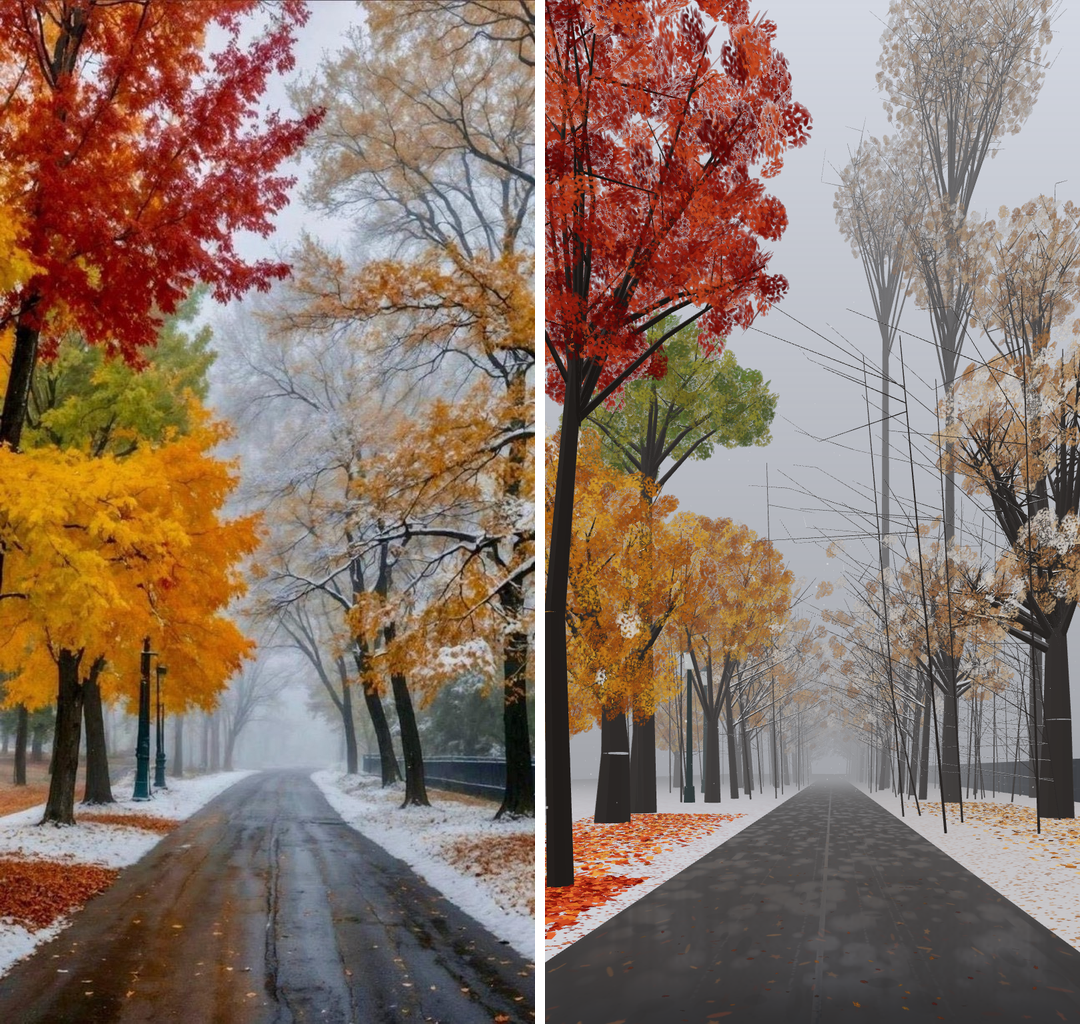
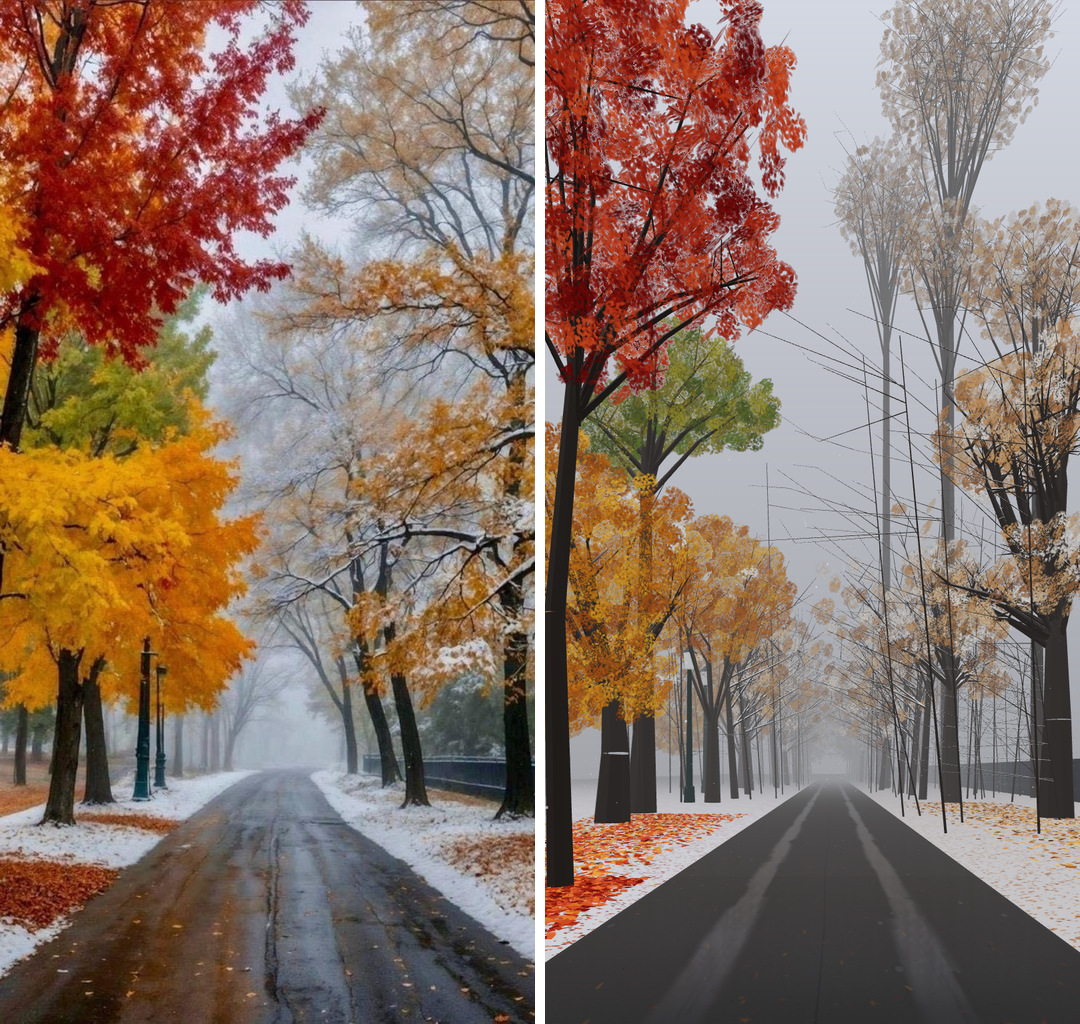
Push wet asphalt fidelity: soft dark tyre tracks and fine grain
Photo-matched near-road: denser grit, soft broken wet-track bands with
dark cool sheen (not bright grey strips), sparse tiny leaf flecks.
Still stylized vs real asphalt — honest limit of realtime procedural.

diff --git a/src/textures.ts b/src/textures.ts
@@ -73,88 +73,86 @@ export function snowTexture(seed: number, leaves: string[], leafAmount: number) 
 export function roadTextures(seed: number) {
   const W = 512, H = 2048, r = rng(seed);
   const [c, g] = canvas(W, H), [rc, rg] = canvas(W, H);
-  // muddy dark asphalt base (warm-grey, not pure black)
-  g.fillStyle = "#4a4642"; g.fillRect(0, 0, W, H);
-  rg.fillStyle = "#9a9a9a"; rg.fillRect(0, 0, W, H); // start rough
+  // warm mid asphalt closer to photo near (#5e4f4e-ish)
+  g.fillStyle = "#524f4c"; g.fillRect(0, 0, W, H);
+  rg.fillStyle = "#a8a8a8"; rg.fillRect(0, 0, W, H);
 
-  // fine grit
-  for (let i = 0; i < 28000; i++) {
-    const v = 40 + r() * 45;
-    const warm = r() * 8;
-    g.fillStyle = `rgba(${v + warm},${v + 2},${v},0.4)`;
-    g.fillRect(r() * W, r() * H, 1 + r() * 2, 1 + r() * 2);
+  // fine grain
+  for (let i = 0; i < 90000; i++) {
+    const v = 48 + r() * 55;
+    const warm = r() * 12;
+    g.fillStyle = `rgba(${v + warm},${v + 4},${v},0.55)`;
+    g.fillRect(r() * W, r() * H, 1, 1);
   }
-  // thin broken tyre / wet streaks (keep wet, avoid huge footprint blobs)
-  for (let s = 0; s < 6; s++) {
-    const x0 = W * (0.18 + r() * 0.64);
-    const wobble = 0.8 + r() * 2.2;
-    for (let y = 0; y < H; y += 2) {
-      if (r() < 0.35) continue;
-      const x = x0 + Math.sin(y * 0.01 + s) * wobble + (r() - 0.5) * 0.8;
-      const dark = 22 + r() * 20;
-      g.fillStyle = `rgba(${dark + 6},${dark + 2},${dark},0.28)`;
-      g.fillRect(x, y, 0.8 + r() * 1.2, 2);
-      rg.fillStyle = `rgba(${35 + r() * 25},${35 + r() * 25},${35 + r() * 25},0.4)`;
-      rg.fillRect(x - 0.3, y, 1.5 + r() * 1.5, 2);
+  for (let i = 0; i < 25000; i++) {
+    const v = 130 + r() * 90;
+    rg.fillStyle = `rgba(${v},${v},${v},0.3)`;
+    rg.fillRect(r() * W, r() * H, 1 + r(), 1 + r());
+  }
+
+  // soft dark wet tyre bands (no 1px scanlines) — darker + smoother for broken reflection
+  const tracks = [W * 0.3, W * 0.7];
+  for (const x0 of tracks) {
+    for (let i = 0; i < 120; i++) {
+      const y = r() * H;
+      const len = 40 + r() * 180;
+      const half = 10 + r() * 14;
+      const x = x0 + (r() - 0.5) * 14;
+      // broken: skip some segments
+      if (r() < 0.22) continue;
+      const gr = g.createRadialGradient(x, y + len * 0.3, 0, x, y + len * 0.3, half * 1.4);
+      const d = 36 + r() * 18;
+      gr.addColorStop(0, `rgba(${d + 4},${d + 2},${d},0.4)`);
+      gr.addColorStop(1, `rgba(${d},${d},${d},0)`);
+      g.fillStyle = gr;
+      g.fillRect(x - half * 2, y, half * 4, len);
+      // roughness soft streak
+      const rr = rg.createLinearGradient(x - half, y, x + half, y);
+      rr.addColorStop(0, "rgba(40,40,40,0)");
+      rr.addColorStop(0.5, "rgba(22,22,22,0.7)");
+      rr.addColorStop(1, "rgba(40,40,40,0)");
+      rg.fillStyle = rr;
+      rg.fillRect(x - half, y, half * 2, len);
+    }
+    // a few thin darker wet streaks inside band
+    for (let i = 0; i < 25; i++) {
+      const y = r() * H, len = 30 + r() * 100;
+      const x = x0 + (r() - 0.5) * 18;
+      g.fillStyle = `rgba(20,22,26,${0.25 + r() * 0.25})`;
+      g.fillRect(x - 1, y, 2 + r() * 2, len);
+      rg.fillStyle = "rgba(12,12,12,0.65)";
+      rg.fillRect(x - 1, y, 2 + r() * 2, len);
     }
   }
-  // small wet puddle mottling (keep wet sheen, no giant footprint blobs)
-  for (let i = 0; i < 900; i++) {
-    const x = r() * W, y = r() * H;
-    const w = 3 + r() * 16, h = 4 + r() * 22;
-    const mud = 24 + r() * 22;
-    const gr = g.createRadialGradient(x, y, 0, x, y, Math.max(w, h));
-    gr.addColorStop(0, `rgba(${mud + 10},${mud + 6},${mud},0.7)`);
-    gr.addColorStop(0.55, `rgba(${mud + 8},${mud + 4},${mud},0.32)`);
-    gr.addColorStop(1, `rgba(${mud},${mud},${mud},0)`);
-    g.fillStyle = gr; g.fillRect(x - w * 2, y - h * 2, w * 4, h * 4);
-    const rr = rg.createRadialGradient(x, y, 0, x, y, Math.max(w, h));
-    rr.addColorStop(0, "rgba(8,8,8,0.92)");
-    rr.addColorStop(0.55, "rgba(35,35,35,0.4)");
-    rr.addColorStop(1, "rgba(40,40,40,0)");
-    rg.fillStyle = rr; rg.fillRect(x - w * 2, y - h * 2, w * 4, h * 4);
-  }
-  // small dry grit patches (keep micro variation, no giant ovals)
-  for (let i = 0; i < 220; i++) {
-    const x = r() * W, y = r() * H, w = 3 + r() * 12, h = 4 + r() * 16;
-    g.fillStyle = `rgba(70,65,58,${0.06 + r() * 0.1})`;
-    g.beginPath(); g.ellipse(x, y, w, h, r() * 3, 0, Math.PI * 2); g.fill();
-    rg.fillStyle = `rgba(200,200,200,${0.2 + r() * 0.3})`;
-    rg.beginPath(); rg.ellipse(x, y, w, h, 0, 0, Math.PI * 2); rg.fill();
-  }
-  // worn centre seam
-  g.fillStyle = "rgba(12,12,14,0.85)";
-  for (let y = 0; y < H; y += 2) {
-    g.fillRect(W * 0.5 + Math.sin(y * 0.012) * 2.5 + (r() - 0.5) * 2, y, 2.5, 2);
-  }
-  rg.fillStyle = "#181818"; rg.fillRect(W * 0.5 - 3, 0, 6, H);
 
-  // leaf litter — denser toward near end of texture (high v = near camera when mapped)
-  const leafCols = ["#9a4a18", "#b8701e", "#7a2a12", "#c48a2a", "#5a3a20", "#a85820", "#6b3010", "#d49830"];
-  for (let i = 0; i < 900; i++) {
-    // bias toward bottom half of texture (near road in view)
-    const yBias = Math.pow(r(), 0.55);
-    const y = H * (0.35 + 0.65 * yBias);
-    const x = r() * W;
-    g.save();
-    g.translate(x, y);
-    g.rotate(r() * 6.3);
-    const s = 1.4 + r() * 2.8;
-    g.scale(s, s * (1.6 + r()));
-    g.globalAlpha = 0.75 + r() * 0.25;
-    g.fillStyle = leafCols[Math.floor(r() * leafCols.length)];
-    leafPath(g, r() < 0.55);
-    g.restore();
-    // leaves add micro roughness
-    rg.fillStyle = "rgba(160,160,160,0.35)";
-    rg.fillRect(x - 2, y - 2, 4, 4);
+  // tiny wet flecks only
+  for (let i = 0; i < 120; i++) {
+    const x = r() * W, y = r() * H;
+    const rad = 1.0 + r() * 3.0;
+    g.fillStyle = `rgba(30,32,34,${0.2 + r() * 0.25})`;
+    g.beginPath(); g.ellipse(x, y, rad * (0.7 + r()), rad * (1 + r()), r() * 2, 0, Math.PI * 2); g.fill();
+    rg.fillStyle = "rgba(25,25,25,0.4)";
+    rg.beginPath(); rg.ellipse(x, y, rad, rad * 1.2, 0, 0, Math.PI * 2); rg.fill();
   }
-  // mud splatter / brown wash near edges
-  for (let i = 0; i < 35; i++) {
-    const side = r() < 0.5 ? r() * W * 0.2 : W * (0.8 + r() * 0.2);
-    const y = r() * H;
-    g.fillStyle = `rgba(55,42,28,${0.12 + r() * 0.2})`;
-    g.beginPath(); g.ellipse(side, y, 5 + r() * 14, 4 + r() * 12, 0, 0, Math.PI * 2); g.fill();
+
+  // centre seam
+  g.fillStyle = "rgba(18,18,20,0.85)";
+  for (let y = 0; y < H; y += 1) {
+    g.fillRect(W * 0.5 + Math.sin(y * 0.014) * 1.8 + (r() - 0.5), y, 1.4, 1);
+  }
+
+  // sparse tiny leaves
+  const leafCols = ["#9a4a18", "#b8701e", "#7a2a12", "#c48a2a", "#a85820"];
+  for (let i = 0; i < 420; i++) {
+    const y = H * (0.5 + 0.5 * Math.pow(r(), 0.75));
+    const x = r() * W;
+    g.save(); g.translate(x, y); g.rotate(r() * 6.3);
+    const s = 1.0 + r() * 2.0;
+    g.scale(s, s * (1.3 + r()));
+    g.globalAlpha = 0.65 + r() * 0.35;
+    g.fillStyle = leafCols[Math.floor(r() * leafCols.length)];
+    leafPath(g, r() < 0.5);
+    g.restore();
   }
 
   const map = new THREE.CanvasTexture(c), rough = new THREE.CanvasTexture(rc);

diff --git a/src/road.ts b/src/road.ts
@@ -37,19 +37,19 @@ export function wetRoadWithReflection(env: THREE.Texture | null, backend: "webgp
     map,
     roughnessMap: rough,
     envMap: env ?? undefined,
-    color: "#726b64", // warm muddy asphalt
-    roughness: 0.55,
+    color: "#68635e",
+    roughness: 0.62,
     metalness: 0,
-    clearcoat: 0.32,
-    clearcoatRoughness: 0.28,
-    envMapIntensity: useReflect ? 0.4 : 0.55,
+    clearcoat: 0.45,
+    clearcoatRoughness: 0.22,
+    envMapIntensity: useReflect ? 0.35 : 0.5,
   });
 
   if (rt) {
     mat.onBeforeCompile = (shader) => {
       shader.uniforms.tPlanarReflect = { value: rt.texture };
       shader.uniforms.uReflectMatrix = { value: reflectorMatrix };
-      shader.uniforms.uReflectMix = { value: 0.24 };
+      shader.uniforms.uReflectMix = { value: 0.5 };
       shader.uniforms.uReflectBlur = { value: 1.0 / rtSize };
       shader.vertexShader = shader.vertexShader
         .replace(
@@ -84,7 +84,7 @@ varying vec3 vPlanarWorldPos;
   float edge = smoothstep( 0.0, 0.1, rq.x ) * smoothstep( 1.0, 0.9, rq.x )
              * smoothstep( 0.0, 0.08, rq.y ) * smoothstep( 1.0, 0.92, rq.y );
   // wide multi-tap blur: wet asphalt streak, not chrome
-  vec2 px = vec2( uReflectBlur * 5.0, uReflectBlur * 3.0 );
+  vec2 px = vec2( uReflectBlur * 7.0, uReflectBlur * 1.6 ); // wide H, tight V = streaky wet tracks
   vec3 refl = vec3( 0.0 );
   float wsum = 0.0;
   for ( int iy = -2; iy <= 2; iy++ ) {
@@ -95,20 +95,22 @@ varying vec3 vPlanarWorldPos;
     }
   }
   refl /= wsum;
-  refl *= 0.45; // dull muddy
-  float nearWet = smoothstep( -40.0, -2.0, vPlanarWorldPos.z );
-  // broken wet: only smooth puddles pick up reflection
-  float wetMask = smoothstep( 0.55, 0.15, roughnessFactor );
-  float mixAmt = uReflectMix * wetMask * edge * ( 0.25 + 0.55 * nearWet );
-  diffuseColor.rgb = mix( diffuseColor.rgb, refl, clamp( mixAmt, 0.0, 0.32 ) );
-  // slight mud darken in near field
-  diffuseColor.rgb *= mix( 1.0, 0.95, nearWet * 0.35 );
+  // dark wet: reflection adds cool sheen without brightening into grey bands
+  refl = pow( max( refl, vec3( 0.0 ) ), vec3( 1.15 ) ) * 0.28;
+  refl *= vec3( 0.85, 0.92, 1.05 ); // slight cool sky tint
+  float nearWet = smoothstep( -35.0, -1.0, vPlanarWorldPos.z );
+  float wetMask = smoothstep( 0.48, 0.1, roughnessFactor );
+  float mixAmt = uReflectMix * wetMask * edge * ( 0.4 + 0.6 * nearWet );
+  // deepen wet asphalt then lift a little with sheen
+  vec3 wetBase = diffuseColor.rgb * 0.85;
+  diffuseColor.rgb = mix( diffuseColor.rgb, wetBase + refl, clamp( mixAmt, 0.0, 0.55 ) );
 }
+
 
 `,
         );
     };
-    mat.customProgramCacheKey = () => "wet-planar-reflect-v13-wet-slim";
+    mat.customProgramCacheKey = () => "wet-planar-reflect-v17";
   }
 
   const mesh = new THREE.Mesh(geo, mat);
@@ -132,9 +134,9 @@ varying vec3 vPlanarWorldPos;
   // leaf litter on wet asphalt — soft-alpha leaf cards, denser near camera like the photo
   {
     const r = (() => { let a = (params.seed + 91) >>> 0; return () => { a = (a + 0x6d2b79f5) >>> 0; let t = Math.imul(a ^ (a >>> 15), 1 | a); t = (t + Math.imul(t ^ (t >>> 7), 61 | t)) ^ t; return ((t ^ (t >>> 14)) >>> 0) / 4294967296; }; })();
-    const n = Math.round(700 * params.density);
+    const n = Math.round(480 * params.density);
     const litter = new THREE.InstancedMesh(
-      new THREE.PlaneGeometry(0.1, 0.07).rotateX(-Math.PI / 2),
+      new THREE.PlaneGeometry(0.06, 0.04).rotateX(-Math.PI / 2),
       new THREE.MeshBasicMaterial({
         map: leafClump(params.seed + 3, true),
         alphaTest: 0.22,
@@ -150,10 +152,10 @@ varying vec3 vPlanarWorldPos;
     const cols = ["#9a4a18", "#b8701e", "#7a2a12", "#c48a2a", "#5a3a20", "#a85820", "#8a4010"];
     for (let i = 0; i < n; i++) {
       const along = Math.pow(r(), 1.5);
-      const z = -0.5 - along * 18;
+      const z = -0.6 - along * 14;
       const x = cx + (r() - 0.5) * w * 0.78;
       e.set((r() - 0.5) * 0.5, r() * 6.3, (r() - 0.5) * 0.5);
-      const sc = 0.35 + r() * 0.5;
+      const sc = 0.22 + r() * 0.35;
       m.compose(new THREE.Vector3(x, 0.012 + r() * 0.008, z), q.setFromEuler(e), s.set(sc * (0.8 + r() * 0.5), 1, sc));
       litter.setMatrixAt(i, m);
       litter.setColorAt(i, c.set(cols[Math.floor(r() * cols.length)]).multiplyScalar(0.7 + r() * 0.35));

diff --git a/README.md b/README.md
@@ -48,7 +48,7 @@ bun install && bun run dev
 
 ## 和照片的差距（诚实说明）
 
-这是程序化实时场景，**不是照片级复刻**。当前网格色差约 **23–24/255**，路面 IoU 约 **0.95**。
+这是程序化实时场景，**不是照片级复刻**。当前网格色差约 **22–23/255**，路面 IoU 约 **0.95**。
 
 仍然明显的差距：
 
@@ -57,7 +57,7 @@ bun install && bun run dev
 3. **中景雾带**：已加灰枝网，仍比照片亮、疏。
 4. **远树**：仍偏细杆。
 
-再加细节对并排观感帮助已经很小，所以停在这里。
+路面仍是程序化 stylized：细颗粒、湿车辙破碎反光和疏落叶有改善，但达不到照片的真实沥青颗粒与光学湿反光。树冠也仍是叶卡。
 
 ## 截图 / 对比
 
